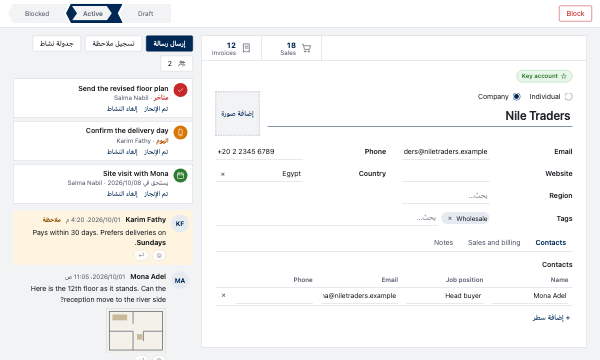
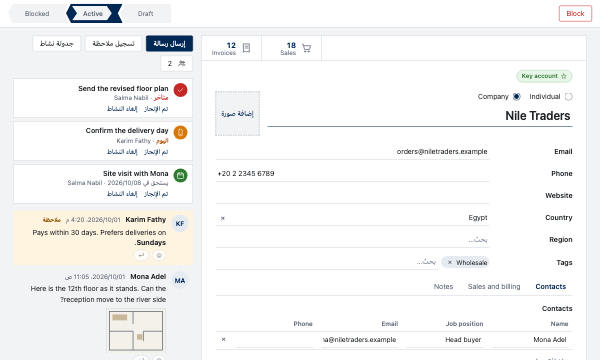
fix(widgets): a sheet beside its side panel lays out for its own width

diff --git a/e2e/chatter.spec.ts b/e2e/chatter.spec.ts
@@ -1,5 +1,5 @@
 import { expect, test, type Page } from '@playwright/test';
-import { node, open, screen } from './support';
+import { expectNoSidewaysScroll, node, open, screen } from './support';
 import { VARIANTS } from './variants';
 
 /** The chatter beside the customer sheet, in every framework. */
@@ -18,6 +18,24 @@ for (const variant of VARIANTS) {
       const summary = (await chatter(page).locator('.fd-activity-summary').nth(1).boundingBox())!;
       expect(summary.width, 'the summary is squeezed').toBeGreaterThan(150);
       await screen(page, `${variant}-chatter`, { viewport: true });
+    });
+
+    test('keeps every value readable where the sheet and its chatter share a middling width', async ({ page }) => {
+      for (const width of [960, 1100]) {
+        await page.setViewportSize({ width, height: 900 });
+        await open(page, variant, 'page=customer&skin=underline');
+        await expect(chatter(page).locator('.fd-activity')).toHaveCount(3);
+        // A text box too narrow to read its value is a layout that ran out of room.
+        const narrow = await page.locator('.fd-card .fd-field input.fd-input:visible').evaluateAll((inputs) =>
+          inputs
+            // A table of lines scrolls its own cells.
+            .filter((input) => !input.closest('[data-type="one2many"]') && (input as HTMLElement).getBoundingClientRect().width < 140)
+            .map((input) => input.closest('.fd-field')?.getAttribute('data-field'))
+        );
+        expect(narrow, `at ${width}px`).toEqual([]);
+        await expectNoSidewaysScroll(page);
+        await screen(page, `${variant}-chatter-${width}`, { viewport: true });
+      }
     });
 
     test('sends a message mentioning someone, with a file, and logs a note with Ctrl+Enter, the record staying unsaved', async ({ page }) => {

diff --git a/libs/widgets/src/lib/styles.ts b/libs/widgets/src/lib/styles.ts
@@ -381,10 +381,13 @@ export const FIELDIA_CSS = /* css */ `
 /* Save and Discard closing the sheet, when the page puts them at its foot. */
 .fd-sheet-foot { margin: 4px -28px -28px; padding: 12px 28px; border-block-start: 1px solid var(--fd-border); border-end-start-radius: inherit; border-end-end-radius: inherit; }
 .fd-sheet-layout.fd-has-side { grid-template-columns: minmax(0, 1fr) minmax(260px, 360px); }
-@container (max-width: 860px) { .fd-sheet-layout.fd-has-side { grid-template-columns: minmax(0, 1fr); } }
+/* The side panel goes under the sheet before the sheet is left too narrow for a label beside its value. */
+@container (max-width: 1000px) { .fd-sheet-layout.fd-has-side { grid-template-columns: minmax(0, 1fr); } }
 .fd-card {
   position: relative; background: var(--fd-surface); border: 1px solid var(--fd-border);
   border-radius: var(--fd-radius); padding: 24px 28px 28px; display: grid; gap: 18px; min-width: 0;
+  /* The card's own width decides its columns, not the page's: beside a side panel it has less. */
+  container-type: inline-size;
 }
 .fd-ribbon-frame { position: absolute; inset: 0; overflow: hidden; border-radius: inherit; pointer-events: none; }
 .fd-ribbon {
